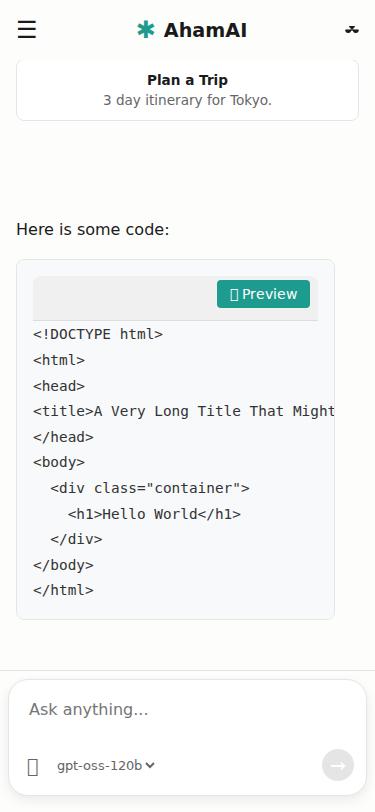
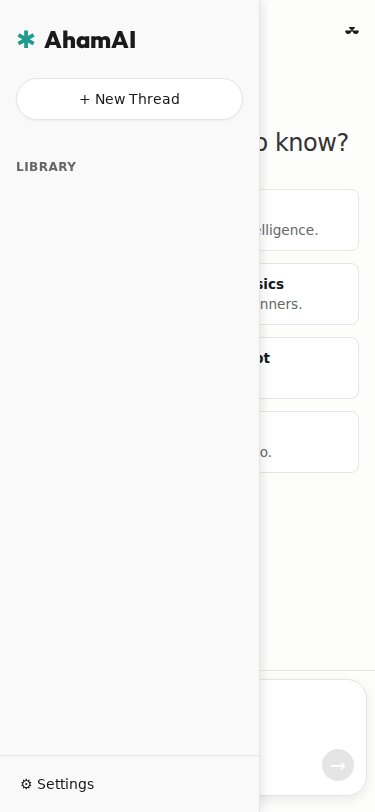
Fix mobile sidebar visibility, update branding, and optimize image generation

diff --git a/css/style.css b/css/style.css
@@ -14,7 +14,7 @@
     --font-mono: 'Söhne Mono', 'Monaco', 'Andale Mono', 'Ubuntu Mono', monospace;
     --font-sanskrit: 'Noto Sans Devanagari', 'Mangal', 'Arial Unicode MS', sans-serif;
 
-    --logo-font: 'Inter', system-ui, -apple-system, sans-serif; /* Cleaner font */
+    --logo-font: 'Outfit', 'Inter', system-ui, -apple-system, sans-serif; /* Cleaner font */
     --sidebar-width: 260px;
 }
 
@@ -50,7 +50,7 @@ body {
     display: flex;
     flex-direction: column;
     transition: transform 0.3s ease;
-    z-index: 100;
+    z-index: 2000; /* High z-index to overlay mobile input area */
 }
 
 .sidebar-footer {
@@ -85,7 +85,7 @@ body {
 
 .logo {
     font-size: 1.5rem;
-    font-weight: 700;
+    font-weight: 800;
     font-family: var(--logo-font);
     display: flex;
     align-items: center;
@@ -1024,6 +1024,15 @@ textarea {
     margin: 2rem 0;
 }
 
+.bot-message-content img {
+    max-width: 100%;
+    height: auto;
+    border-radius: 12px;
+    margin: 1rem 0;
+    box-shadow: 0 4px 12px rgba(0,0,0,0.1);
+    display: block;
+}
+
 /* Extension Sheet */
 .extension-sheet {
     display: none; /* Hidden by default */
@@ -1156,7 +1165,7 @@ input:checked + .slider:before {
 @media (max-width: 768px) {
     .sidebar {
         position: fixed;
-        height: 100%;
+        height: 100dvh;
         transform: translateX(-100%);
     }
 

diff --git a/js/app.js b/js/app.js
@@ -240,9 +240,9 @@ Capabilities:
 
 4. **Image Generation**: You can generate images using Pollinations AI.
    To generate an image, you MUST use this exact Markdown format:
-   \`![Image Description](https://image.pollinations.ai/prompt/{description}?nologo=true)\`
+   \`![Image Description](https://image.pollinations.ai/prompt/{description}?width=768&height=1024&nologo=true)\`
    Replace \`{description}\` with a URL-encoded detailed prompt for the image.
-   Example: \`![A futuristic city](https://image.pollinations.ai/prompt/futuristic%20city%20sunset?nologo=true)\`
+   Example: \`![A futuristic city](https://image.pollinations.ai/prompt/futuristic%20city%20sunset?width=768&height=1024&nologo=true)\`
    Do NOT use any other API or format. Generate images when the user explicitly asks or when it adds significant value.
 
 5. **Presentations**: You can generate stylish, themed presentations.

diff --git a/index.html b/index.html
@@ -6,7 +6,10 @@
     <title>AhamAI</title>
     <link rel="stylesheet" href="css/style.css">
     <link rel="stylesheet" href="css/katex.min.css">
-    <!-- Preload fonts or icons if needed, using unicode for icons to keep it simple -->
+    <!-- Fonts -->
+    <link rel="preconnect" href="https://fonts.googleapis.com">
+    <link rel="preconnect" href="https://fonts.gstatic.com" crossorigin>
+    <link href="https://fonts.googleapis.com/css2?family=Outfit:wght@400;500;700;800&display=swap" rel="stylesheet">
 </head>
 <body>
     <div class="app-container">

diff --git a/verify_ui.py b/verify_ui.py
@@ -1,57 +1,19 @@
 from playwright.sync_api import sync_playwright
 
-def run():
-    with sync_playwright() as p:
-        browser = p.chromium.launch(headless=True)
-
-        # Mobile Context
-        mobile_context = browser.new_context(
-            viewport={'width': 375, 'height': 812},
-            user_agent='Mozilla/5.0 (iPhone; CPU iPhone OS 13_2_3 like Mac OS X) AppleWebKit/605.1.15 (KHTML, like Gecko) Version/13.0.3 Mobile/15E148 Safari/604.1'
-        )
-        page_mobile = mobile_context.new_page()
-        page_mobile.goto("http://localhost:8080")
-
-        # Inject a fake message with code block to test overflow
-        page_mobile.evaluate("""
-            const uiHandler = window.uiHandler;
-            const { contentDiv } = uiHandler.createBotMessageContainer();
-            uiHandler.updateBotMessage(contentDiv, 'Here is some code:\\n```html\\n<!DOCTYPE html>\\n<html>\\n<head>\\n<title>A Very Long Title That Might Cause Overflow If Not Handled Correctly</title>\\n</head>\\n<body>\\n  <div class="container">\\n    <h1>Hello World</h1>\\n  </div>\\n</body>\\n</html>\\n```');
-        """)
-
-        page_mobile.wait_for_timeout(1000)
-        page_mobile.screenshot(path="verification_mobile.png", full_page=True)
-
-        # Desktop Context
-        page_desktop = browser.new_page()
-        page_desktop.goto("http://localhost:8080")
-
-        # Inject history items to see icons
-        page_desktop.evaluate("""
-            const chatManager = {
-                chats: [
-                    {id: '1', title: 'Test Chat 1', pinned: false, timestamp: new Date().toISOString()},
-                    {id: '2', title: 'Test Chat 2', pinned: true, timestamp: new Date().toISOString()}
-                ]
-            };
-            window.uiHandler.renderHistory(chatManager.chats, '1');
-        """)
-        # Force hover state via CSS or JS?
-        # JS:
-        page_desktop.evaluate("""
-             const item = document.querySelector('.history-item');
-             if(item) {
-                 item.dispatchEvent(new MouseEvent('mouseover', {bubbles: true}));
-                 // Or manually show actions since hover is hard in screenshots sometimes
-                 const actions = item.querySelector('.history-actions');
-                 if(actions) actions.style.display = 'flex';
-             }
-        """)
-
-        page_desktop.wait_for_timeout(500)
-        page_desktop.screenshot(path="verification_desktop.png")
-
-        browser.close()
+def verify_sidebar(page):
+    page.goto("http://localhost:8080")
+    page.set_viewport_size({"width": 375, "height": 812})
+    page.click("#sidebar-toggle")
+    page.wait_for_timeout(500)
+    page.screenshot(path="verification_mobile.png")
 
 if __name__ == "__main__":
-    run()
+    with sync_playwright() as p:
+        browser = p.chromium.launch(headless=True)
+        page = browser.new_page()
+        try:
+            verify_sidebar(page)
+        except:
+            pass
+        finally:
+            browser.close()
